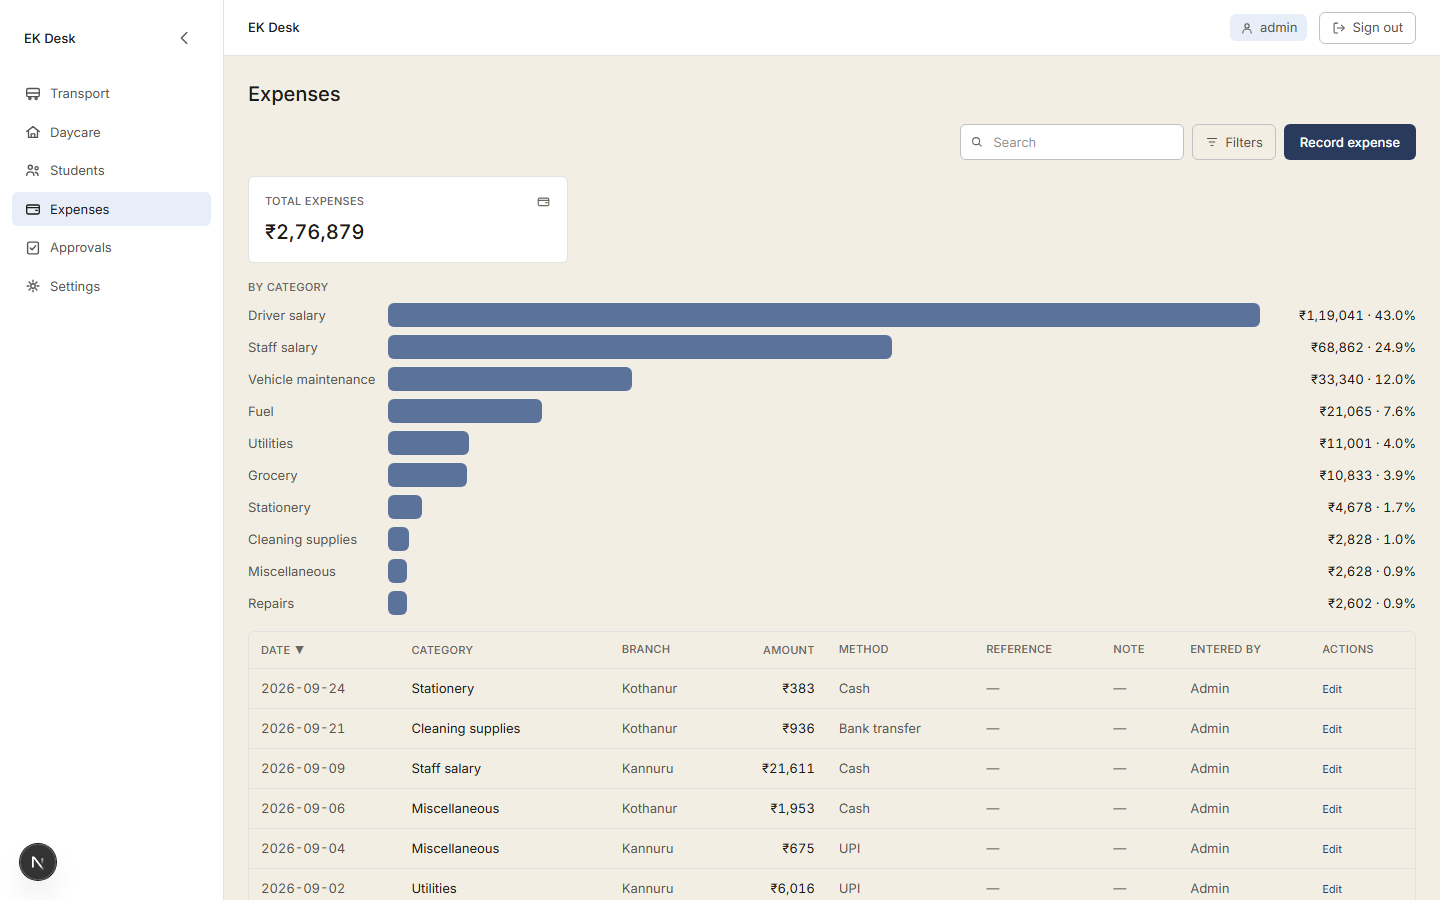
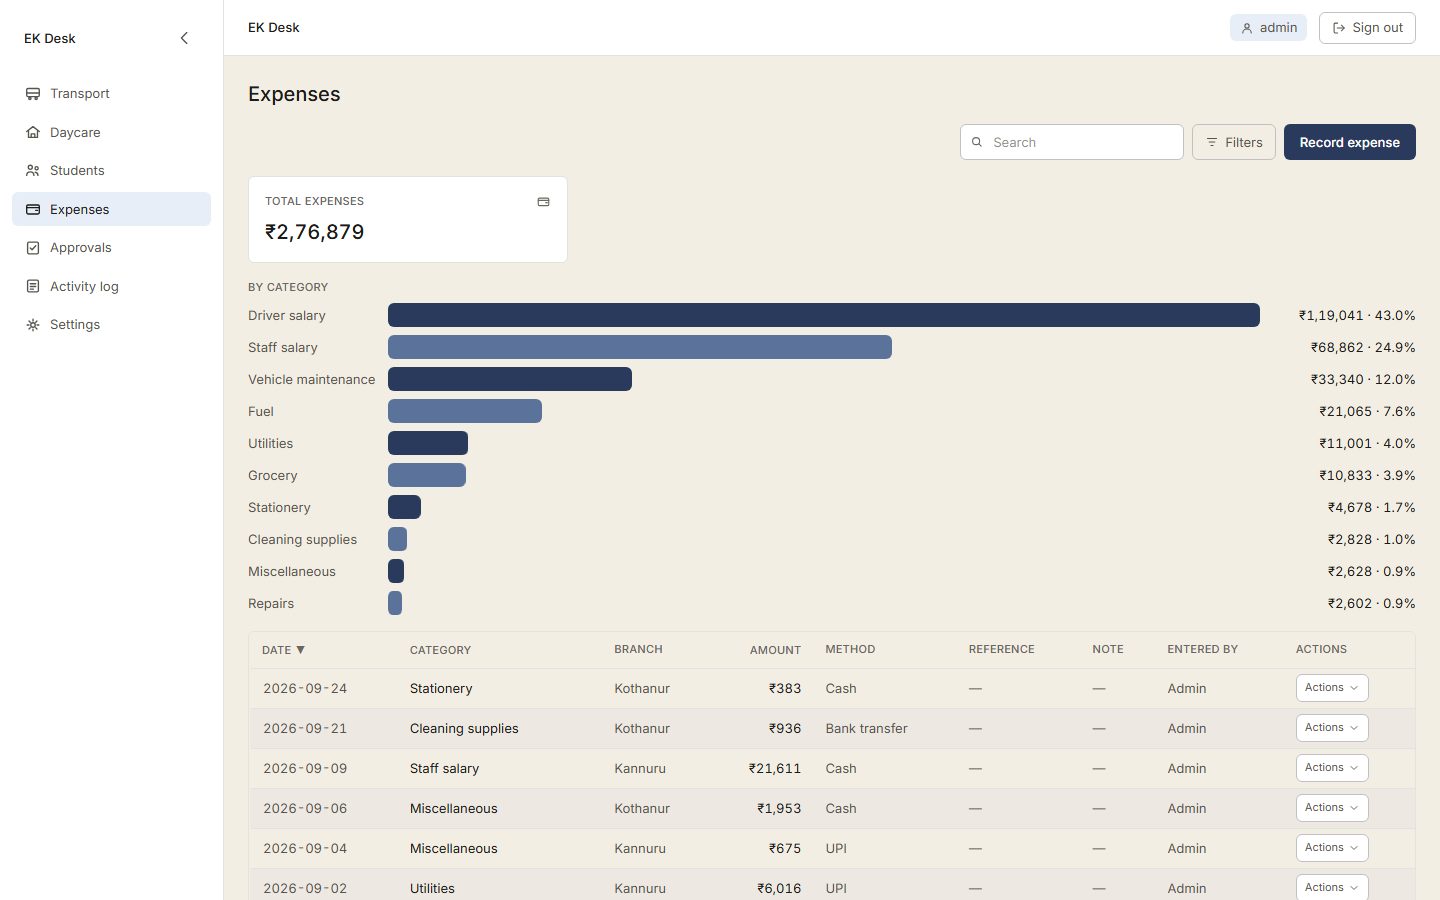
feat: script to capture the landing page's product screenshots
scripts/capture-screenshots.ts signs in as the seeded admin and writes
each dashboard straight to public/screenshots/ via Playwright's own
screenshot API -- the one reliable way to get a real image file onto
disk from this tooling. Deliberately captures against a production
build (npm run build && npm run start), not npm run dev: the dev
server's own floating mode-indicator badge has no business appearing
in a screenshot of the product, and did in an earlier attempt against
dev.

Recaptured all three existing screenshots (stale since before this
session's zebra-striping, date-range filters, and Download-button
work) and added a fourth for the Activity log, a major feature that
didn't exist when the screenshots were first taken.

README's Screenshots section rewritten to match -- it referenced a
docs/screenshots/ directory that was never real (the images always
lived in public/screenshots/, the only place Next's own <Image> can
serve them from) and called capturing them impossible, which this
script now does.

diff --git a/scripts/capture-screenshots.ts b/scripts/capture-screenshots.ts
@@ -1,0 +1,70 @@
+// Captures the landing page's product screenshots directly to
+// public/screenshots/ via Playwright's own screenshot API -- the one
+// reliable way to get a real image file onto disk from this tooling (see
+// README's "Screenshots" section, which this replaces the manual-capture
+// caveat in).
+//
+// Run against a freshly seeded local Supabase (npm run db:reset && npm run
+// db:seed && npm run auth:seed) and a running app server, then:
+//
+//   npm run screenshots
+//
+// A production build (npm run build && npm run start) is deliberately
+// what these should be captured against, not `npm run dev` -- the dev
+// server renders its own floating dev-mode indicator badge over the page,
+// which has no business showing up in a screenshot of the product.
+//
+// Never run against a real/production database -- these are seeded fake
+// students end to end, and CLAUDE.md's PII rule means real student data
+// must never end up in a checked-in screenshot.
+import { chromium } from "@playwright/test";
+import {
+  TEST_ADMIN_USERNAME,
+  TEST_ADMIN_PASSWORD,
+} from "./test-credentials";
+
+const BASE_URL = process.env.SCREENSHOT_BASE_URL ?? "http://localhost:3000";
+
+interface Shot {
+  name: string;
+  path: string;
+  // Waits for this text to appear before capturing -- the dashboards
+  // stream in via Suspense, so a fixed delay would be a race either way.
+  waitForText: string;
+}
+
+const SHOTS: Shot[] = [
+  { name: "transport", path: "/transport", waitForText: "By branch" },
+  { name: "students", path: "/students", waitForText: "Date added" },
+  { name: "expenses", path: "/expenses", waitForText: "By category" },
+  { name: "logs", path: "/logs", waitForText: "Activity log" },
+];
+
+async function main() {
+  const browser = await chromium.launch();
+  const page = await browser.newPage({ viewport: { width: 1440, height: 900 } });
+
+  await page.goto(`${BASE_URL}/login`);
+  await page.getByLabel("Username").fill(TEST_ADMIN_USERNAME);
+  await page.getByLabel("Password").fill(TEST_ADMIN_PASSWORD);
+  await page.getByRole("button", { name: "Sign in" }).click();
+  await page.waitForURL(/\/transport$/);
+
+  for (const shot of SHOTS) {
+    await page.goto(`${BASE_URL}${shot.path}`);
+    await page.getByText(shot.waitForText).first().waitFor();
+    // Let any entrance/reveal animation settle so the capture isn't
+    // mid-fade.
+    await page.waitForTimeout(400);
+    const path = `public/screenshots/${shot.name}.png`;
+    await page.screenshot({ path });
+    console.log(`Captured ${path}`);
+  }
+
+  await browser.close();
+}
+
+main().catch((error) => {
+  console.error(error);
+  process.exit(1);
+});

diff --git a/README.md b/README.md
@@ -142,22 +142,19 @@ for bringing the office's existing real records into this schema.
 
 ## Screenshots
 
-Taken against seed data only — never real student data, per `CLAUDE.md`'s
-PII rule. To capture them yourself:
+`public/screenshots/` holds the four images the landing page (`/`) shows
+under "What it looks like" — taken against seed data only, never real
+student data, per `CLAUDE.md`'s PII rule. To recapture them after a UI
+change:
 
 ```bash
-npm run db:start && npm run db:reset && npm run db:seed && npm run auth:seed
-npm run dev
+npm run db:reset && npm run db:seed && npm run auth:seed
+npm run build && npm run start
+npm run screenshots
 ```
 
-Sign in with the seeded admin (`scripts/test-credentials.ts`), then capture:
-
-- `/transport` and `/daycare` — the dashboard (stat cards, By branch split
-  with `?branch=all`, ageing/collection charts, filterable record table).
-- A student's detail drawer (click any row).
-- `/students` — the cross-service student directory.
-
-_Not yet embedded here — this repo doesn't have a way to save a rendered
-screenshot to a file from the tooling available when this section was
-written. Add the images under `docs/screenshots/` and link them here once
-captured._
+`scripts/capture-screenshots.ts` signs in as the seeded admin
+(`scripts/test-credentials.ts`) and writes each one straight to
+`public/screenshots/` via Playwright's own screenshot API — deliberately
+against a production build (`next start`), not `next dev`, so the dev-mode
+indicator badge never ends up in a shipped image.
